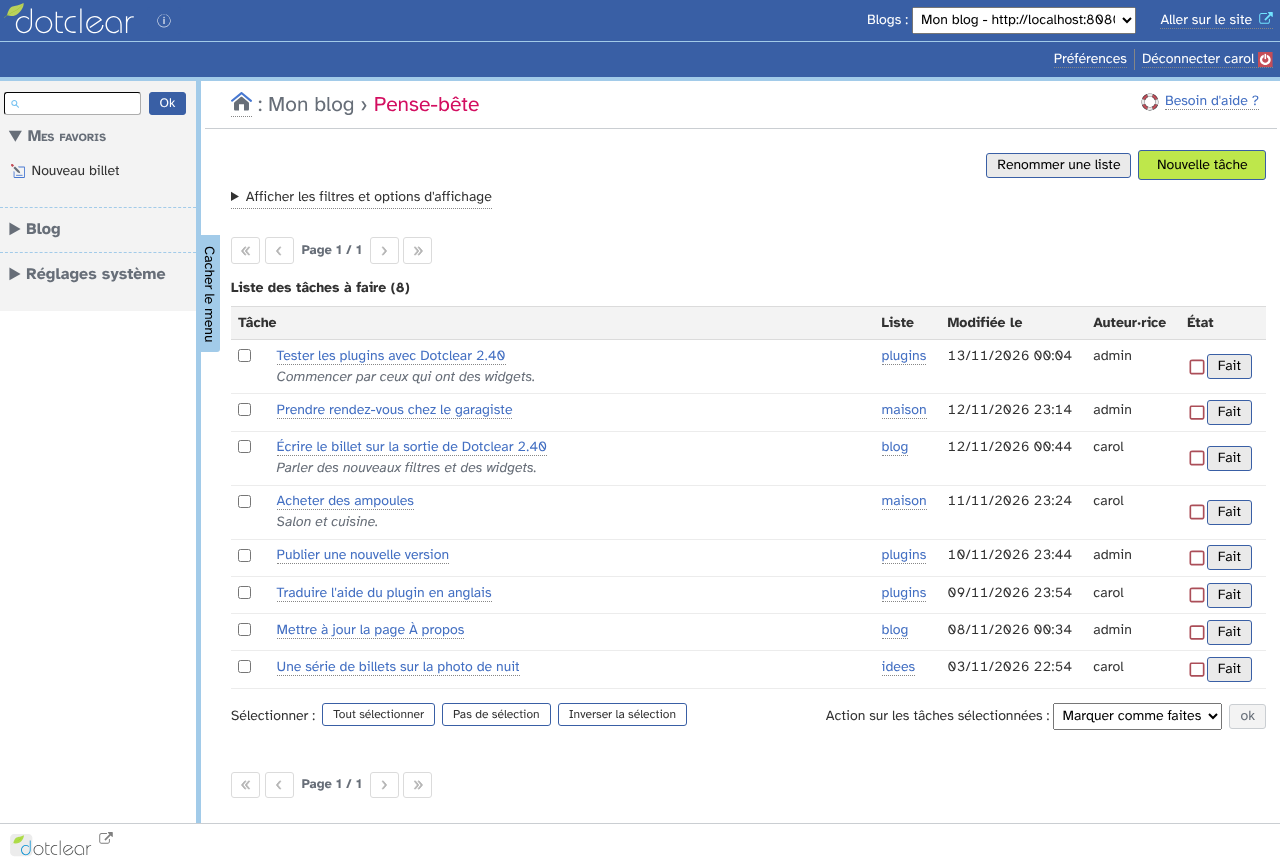
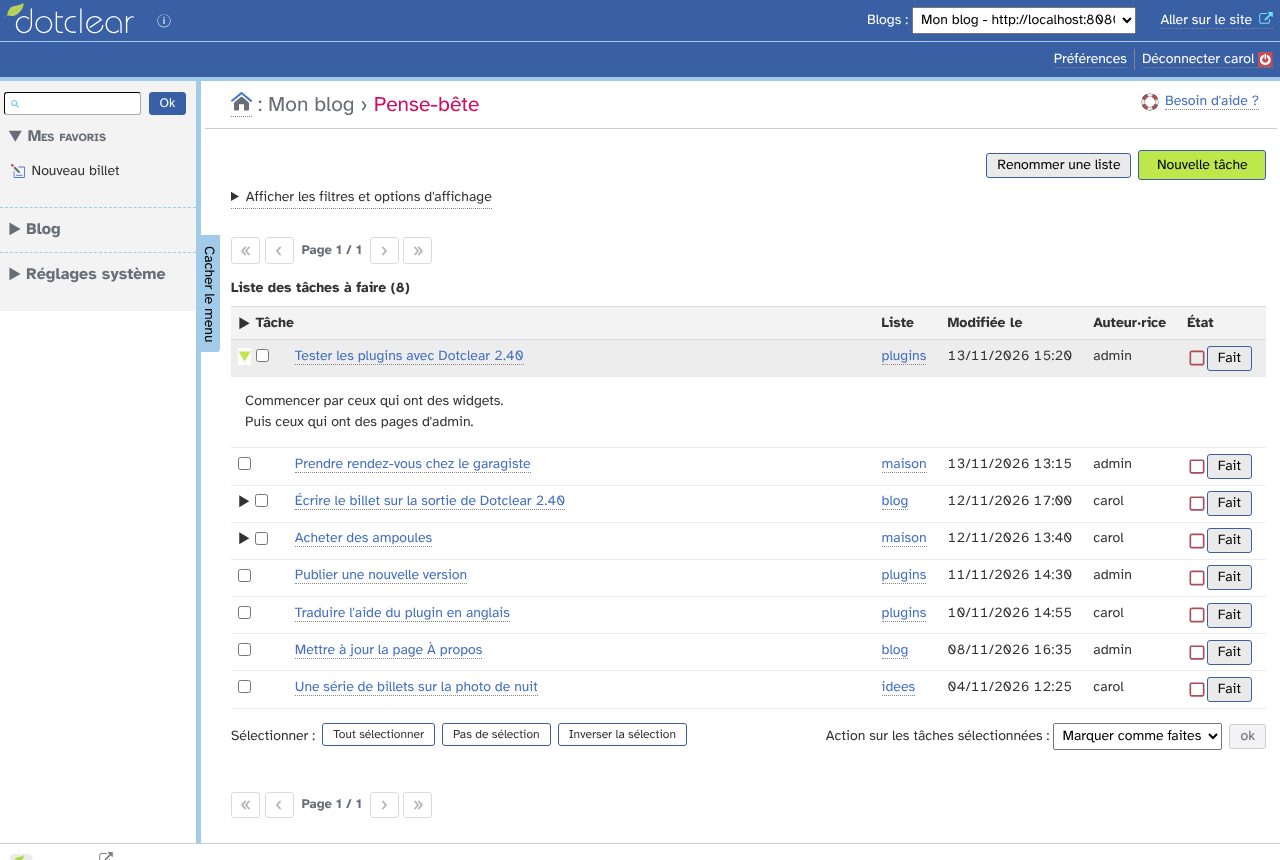
Show todo details with expand buttons, as on the posts list

diff --git a/js/manage.js b/js/manage.js
@@ -14,6 +14,32 @@ dotclear.ready(() => {
     }
     dotclear.condSubmit('#todos-form td input[type="checkbox"]', '#todos-form #do-action');
 
+    // Details of todos, shown by the expand buttons as on the posts list
+    dotclear.expandContent({
+      line: form.querySelector('#todos thead tr'),
+      lines: form.querySelectorAll('#todos tbody tr.line[data-note]'),
+      callback: (line) => {
+        const target = dotclear.node(line);
+        const id = `${target.id}_note`;
+        let tr = document.getElementById(id);
+        if (tr) {
+          tr.style.display = tr.style.display === 'none' ? '' : 'none';
+          target.classList.toggle('expand');
+          return;
+        }
+        tr = document.createElement('tr');
+        tr.id = id;
+        const td = document.createElement('td');
+        td.colSpan = target.children.length;
+        td.className = 'expand';
+        td.style.whiteSpace = 'pre-line';
+        td.textContent = target.dataset.note;
+        tr.appendChild(td);
+        target.classList.add('expand');
+        target.parentNode.insertBefore(tr, target.nextSibling);
+      },
+    });
+
     // Headers in cells on small screens
     dotclear.responsiveCellHeaders(form.querySelector('#todos'), '#todos', 1, true);
 

diff --git a/src/Manage.php b/src/Manage.php
@@ -314,15 +314,15 @@ class Manage
                     ->title(__('Edit this todo'))
                     ->text(Html::escapeHTML($todo->title)),
             ];
+
+            $row = (new Tr('todo_' . $todo->id))
+                ->class($todo->isDone() ? ['line', 'offline'] : 'line');
             if ($todo->note !== '') {
-                $note    = trim((string) preg_replace('/\s+/u', ' ', $todo->note));
-                $title[] = (new Note())
-                    ->class('form-note')
-                    ->text(Html::escapeHTML(mb_strlen($note) > 160 ? mb_substr($note, 0, 160) . '…' : $note));
+                // Details are shown by the expand button of the line, as on the posts list
+                $row->data(['note' => Html::escapeHTML($todo->note)]);
             }
 
-            $rows[] = (new Tr('todo_' . $todo->id))
-                ->class($todo->isDone() ? ['line', 'offline'] : 'line')
+            $rows[] = $row
                 ->cols([
                     (new Td())
                         ->class(['nowrap', 'minimal'])

diff --git a/docs/fr/utilisation.md b/docs/fr/utilisation.md
@@ -53,7 +53,8 @@ La page du plugin affiche les tâches à faire du blog, les dernières modifiée
 ![La page du plugin](img/liste.png)
 
 * Le titre de chaque tâche mène à sa page de modification, et le nom de sa liste affiche toutes les tâches de cette liste.
-* Les détails sont affichés sous le titre.
+* La flèche au début d'une ligne déplie les détails de la tâche, quand elle en a. La flèche de l'en-tête du tableau
+  les déplie ou les replie tous, comme sur la liste des billets.
 * Le bouton **Fait** de la colonne _État_ marque tout de suite la tâche comme faite. Sur une tâche faite,
   le bouton **Rouvrir** la remet à faire.
 * Le bouton vert **Nouvelle tâche**, en haut à droite, ouvre le formulaire d'ajout.
